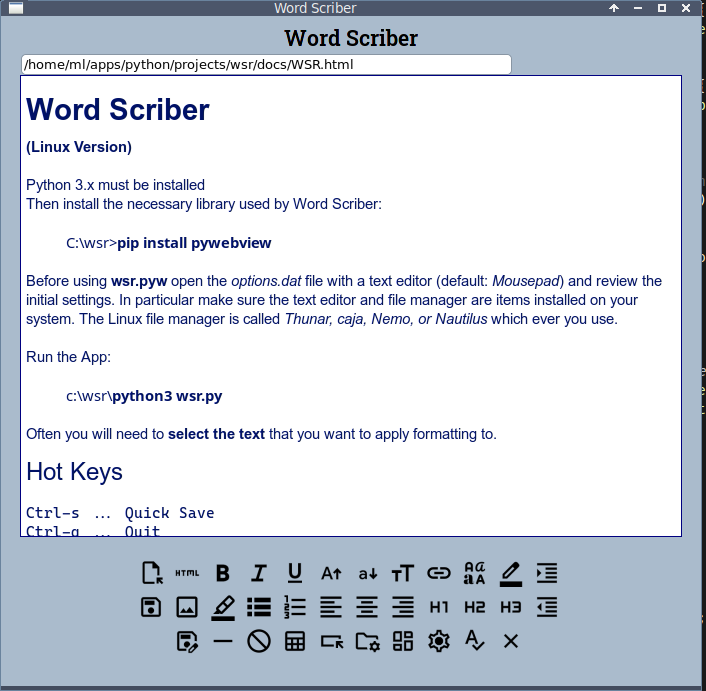
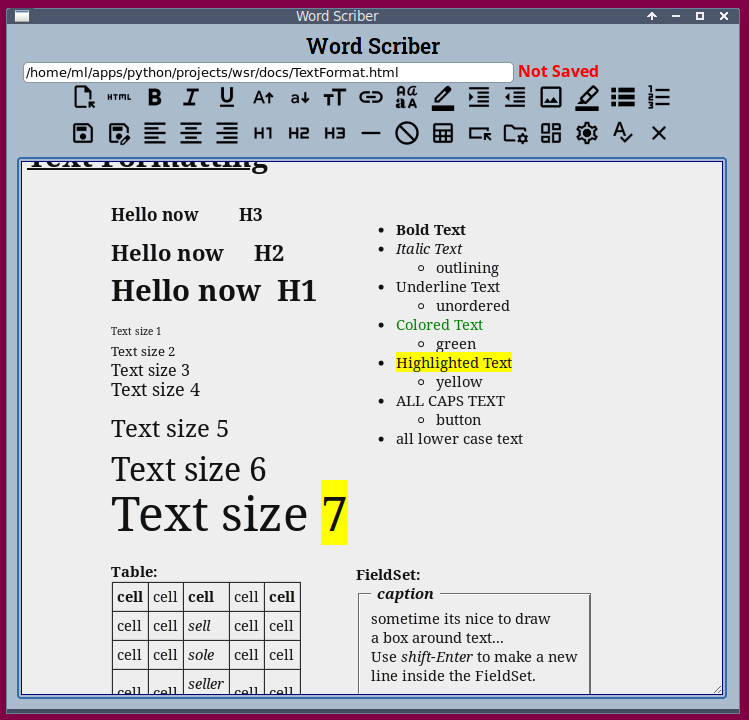
update

diff --git a/index.html b/index.html
@@ -167,9 +167,6 @@ class RichTX {
   }
 
   function setOptions(con) {
-    /* sets the options with Javascript & CSS*/
-    var wh = 0; // wanted window height
-    const originalRatio = 700 / 490;
     opts = con.split(",");
     JS.doq("#CE1").style.fontFamily = opts[0]; // font family
     JS.doq("#CE1").style.fontSize = opts[1]; // font size
@@ -177,11 +174,6 @@ class RichTX {
     JS.doq("#CE1").style.lineHeight = opts[3]; // line height
     JS.doq("body").style.background = opts[4]; // body background
     JS.doq("#CE1").style.background = opts[5]; // CE background
-    // Calculate the new length for CE to keep the ratio close
-    wh = opts[7]; // (new) window height
-    const newCE = wh / originalRatio;
-    JS.doq("#CE1").style.height = "" + newCE + "px"; // CE height
-    JS.doq("#TA1").style.height = "" + newCE + "px"; // TA height
   }
 
   function launch_editor() {
@@ -224,21 +216,28 @@ class RichTX {
   }
   #CE1 {
       padding: 5px;
-      width: 98%;
-      height: 400px;
       border: 1px solid navy;
-      margin: auto;
-      overflow: auto;
+      margin: 6px;
       box-sizing: border-box;
+    resize: vertical;
+    max-height: 78vh; /* adjust these as needed */
+    min-height: 78vh; /* adjust these as needed */
+    max-width: 98%; /* or any other desired maximum width */
+    flex: 1;
+    overflow-y: auto; /* add scrollbars if content overflows */
   }
   #TA1 {
       padding: 5px;
-      height: 400px; /*Note: must be same as #CE*/
-      width: 98%;  /*Note: must be same as #CE*/
+      margin: 6px;
       background: #111;
       color: lightgreen;
       font: normal 10pt "Cascadia Code, Monospace";
-      margin: auto;
+    resize: vertical;
+    max-height: 70vh; /* adjust these as needed */
+    min-height: 78vh; /* adjust these as needed */
+    width: 98%; /* or any other desired maximum width */
+    flex: 1;
+    overflow-y: auto; /* add scrollbars if content overflows */
   }
   .gfont {
     font-family: "Roboto Slab", serif;
@@ -273,12 +272,6 @@ class RichTX {
     cursor: pointer;
     margin-bottom: 8px;
     transition: background-color 0.4s;
-  }
-  .BTN {
-    position: fixed;
-    bottom: 0;
-    width: 100%;
-    overflow-y: auto; /* scroll bar */
   }
   dialog {
     background: #ddd;
@@ -316,11 +309,8 @@ class RichTX {
 &nbsp;&nbsp;<input type="text" id="FN" size=60>
 <span id="SAV">Saved</span>
 <br>
-
-<div id="RTX1"> <!-- The document space -->
-
-</div><br><center>
-<div id="BTN">
+<center>
+<div class="buttons">
   <img class="imgbutton" src="icons/open.png" title="Open File"
       onclick="openFile()" />&nbsp;
   <img class="imgbutton" src="icons/html.png"
@@ -345,61 +335,60 @@ class RichTX {
             title="font name" />&nbsp;
   <img class="imgbutton" src="icons/textcolor.png"
       onclick="JS.dlgOpen('#d1')" title="text color" />&nbsp;
-      <!-- onclick="RTXexec('foreColor', xxxxxxxxxx)" -->
-
   <img class="imgbutton" src="icons/indent.png" title="indent (Alt-i)"
       onclick="RTXexec('indent')" />&nbsp;
+  <img class="imgbutton" src="icons/outdent.png" title="outdent (Alt-o)"
+    onclick="RTXexec('outdent')" />&nbsp;
+  <img class="imgbutton" src="icons/image.png" title="Insert Image"
+    onclick="insertImage()" />&nbsp;
+  <img class="imgbutton" src="icons/highlighter.png" title="Hilite Color"
+    onclick="JS.dlgOpen('#d2');" />&nbsp;
+  <img class="imgbutton" src="icons/lists.png" title="List"
+    onclick="RTXexec('insertUnorderedList')" />&nbsp;
+  <img class="imgbutton" src="icons/format_list_numbered.png" title="Numbered List"
+    onclick="RTXexec('insertOrderedList')" />&nbsp;
   <br>
-    <img class="imgbutton" src="icons/save.png" title="Save (Ctrl-s)"
-      onclick="quicksaveDocument()" />&nbsp;
-    <img class="imgbutton" src="icons/image.png" title="Insert Image"
-      onclick="insertImage()" />&nbsp;
-    <img class="imgbutton" src="icons/highlighter.png" title="Hilite Color"
-      onclick="JS.dlgOpen('#d2');" />&nbsp;
-      <!-- onclick="RTXexec('hiliteColor', xxxxxxxxxxxxxxx)"-->
-
-    <img class="imgbutton" src="icons/lists.png" title="List"
-      onclick="RTXexec('insertUnorderedList')" />&nbsp;
-    <img class="imgbutton" src="icons/format_list_numbered.png" title="Numbered List"
-      onclick="RTXexec('insertOrderedList')" />&nbsp;
-    <img class="imgbutton" src="icons/format_align_left.png" title="Justify Left"
-      onclick="RTXexec('justifyLeft')" />&nbsp;
-    <img class="imgbutton" src="icons/format_align_center.png" title="Justify Center"
-      onclick="RTXexec('justifyCenter')" />&nbsp;
-    <img class="imgbutton" src="icons/format_align_right.png" title="Justify Right"
-      onclick="RTXexec('justifyRight')" />&nbsp;
-    <img class="imgbutton" src="icons/h1.png" title="heading size"
-      onclick="RTXexec('formatBlock', '<h1>')" />&nbsp;
-    <img class="imgbutton" src="icons/h2.png" title="heading size"
-      onclick="RTXexec('formatBlock', '<h2>')" />&nbsp;
-    <img class="imgbutton" src="icons/h3.png" title="heading size"
-      onclick="RTXexec('formatBlock', '<h3>')" />&nbsp;
-    <img class="imgbutton" src="icons/outdent.png" title="outdent (Alt-o)"
-      onclick="RTXexec('outdent')" />&nbsp;
-  <br>
-    <img class="imgbutton" src="icons/save_as.png" title="Save-As"
-      onclick="saveDocument()" />&nbsp;
-    <img class="imgbutton" src="icons/horizontal_rule.png" title="Horizontal Rule"
-      onclick="RTXexec('insertHorizontalRule')" />&nbsp;
-    <img class="imgbutton" src="icons/unformat.png" title="Remove Format"
-      onclick="RTXexec('removeFormat')" />&nbsp;
-    <img class="imgbutton" src="icons/table.png" title="insert Table"
-      onclick="generateTableHTML()" />&nbsp;
-    <img class="imgbutton" src="icons/fieldset.png" title="insert Fieldset"
-      onclick="generateFieldSet()" />&nbsp;
-    <img class="imgbutton" src="icons/files.png" title="manage files"
-      onclick="launch_filemgr()" />&nbsp;
-    <img class="imgbutton" src="icons/browse.png" title="Open in Browser"
-      onclick="launch_browser()" />&nbsp;
-    <img class="imgbutton" src="icons/settings.png" title="Options Edit"
-      onclick="launch_editor()" />&nbsp;
-    <img class="imgbutton" src="icons/spell.png" title="Spell Check"
-      onclick="getWords()" />&nbsp;
-    <img class="imgbutton" src="icons/close.png" title="Close Application"
-      onclick="getDocStatus()" />&nbsp;
+  <img class="imgbutton" src="icons/save.png" title="Save (Ctrl-s)"
+    onclick="quicksaveDocument()" />&nbsp;
+  <img class="imgbutton" src="icons/save_as.png" title="Save-As"
+    onclick="saveDocument()" />&nbsp;
+  <img class="imgbutton" src="icons/format_align_left.png" title="Justify Left"
+    onclick="RTXexec('justifyLeft')" />&nbsp;
+  <img class="imgbutton" src="icons/format_align_center.png" title="Justify Center"
+    onclick="RTXexec('justifyCenter')" />&nbsp;
+  <img class="imgbutton" src="icons/format_align_right.png" title="Justify Right"
+    onclick="RTXexec('justifyRight')" />&nbsp;
+  <img class="imgbutton" src="icons/h1.png" title="heading size"
+    onclick="RTXexec('formatBlock', '<h1>')" />&nbsp;
+  <img class="imgbutton" src="icons/h2.png" title="heading size"
+    onclick="RTXexec('formatBlock', '<h2>')" />&nbsp;
+  <img class="imgbutton" src="icons/h3.png" title="heading size"
+    onclick="RTXexec('formatBlock', '<h3>')" />&nbsp;
+  <img class="imgbutton" src="icons/horizontal_rule.png" title="Horizontal Rule"
+    onclick="RTXexec('insertHorizontalRule')" />&nbsp;
+  <img class="imgbutton" src="icons/unformat.png" title="Remove Format"
+    onclick="RTXexec('removeFormat')" />&nbsp;
+  <img class="imgbutton" src="icons/table.png" title="insert Table"
+    onclick="generateTableHTML()" />&nbsp;
+  <img class="imgbutton" src="icons/fieldset.png" title="insert Fieldset"
+    onclick="generateFieldSet()" />&nbsp;
+  <img class="imgbutton" src="icons/files.png" title="manage files"
+    onclick="launch_filemgr()" />&nbsp;
+  <img class="imgbutton" src="icons/browse.png" title="Open in Browser"
+    onclick="launch_browser()" />&nbsp;
+  <img class="imgbutton" src="icons/settings.png" title="Options Edit"
+    onclick="launch_editor()" />&nbsp;
+  <img class="imgbutton" src="icons/spell.png" title="Spell Check"
+    onclick="getWords()" />&nbsp;
+  <img class="imgbutton" src="icons/close.png" title="Close Application"
+    onclick="getDocStatus()" />&nbsp;
   <br>
 </div>
 </center>
+
+<div id="RTX1"> <!-- The document space -->
+
+</div>
 
 <script>
 /* create and display the RichTX area */

diff --git a/wsr.py b/wsr.py
@@ -11,11 +11,11 @@ spell = SpellChecker()
 current_file = ""  # tracks current file in use
 
 # UNCOMMENT THIS FUNCTION TO WORK ON DUAL MONITORS (there is more)
-# def window_coord():
-#     px = window.x
-#     py = window.y
-#     geo = f"20x20+{px}+{py}"
-#     return geo
+def window_coord():
+    px = window.x
+    py = window.y
+    geo = f"20x20+{px}+{py}"
+    return geo
 
 def on_closing():
     return True
@@ -44,14 +44,14 @@ class Api:
 
     def open_file(self):
         ''' called from javascript '''
-        # root = tk.Tk()  # UNCOMMENT TO WORK ON DUAL MONITORS
-        # root.geometry(window_coord())  # UNCOMMENT TO WORK ON DUAL MONITORS
+        root = tk.Tk()  # UNCOMMENT TO WORK ON DUAL MONITORS
+        root.geometry(window_coord())  # UNCOMMENT TO WORK ON DUAL MONITORS
         global current_file
         file_path = filedialog.askopenfilename(initialdir="./docs",
                                                title = "Open file",
                                                filetypes = (("HTML", "*.html"),
                                                             ("all files", "*.*")))
-        # root.destroy()  # UNCOMMENT TO WORK ON DUAL MONITORS
+        root.destroy()  # UNCOMMENT TO WORK ON DUAL MONITORS
         if file_path:
             current_file = file_path
             with open(current_file, 'r') as file:
@@ -60,15 +60,15 @@ class Api:
 
     def save_file(self, content):
         ''' called from javascript '''
-        # root = tk.Tk()  # UNCOMMENT TO WORK ON DUAL MONITORS
-        # root.geometry(window_coord())  # UNCOMMENT TO WORK ON DUAL MONITORS
+        root = tk.Tk()  # UNCOMMENT TO WORK ON DUAL MONITORS
+        root.geometry(window_coord())  # UNCOMMENT TO WORK ON DUAL MONITORS
         global current_file
         file_path = filedialog.asksaveasfilename(initialdir="./docs",
                                                  defaultextension=".html",
                                                  initialfile="",
                                                  filetypes = (("HTML", "*.html"),
                                                             ("all files", "*.*")))
-        # root.destroy()  # remove if single monitor
+        root.destroy()  # remove if single monitor
         if file_path:
             current_file = file_path
             with open(file_path, 'w') as file:
@@ -122,15 +122,13 @@ if __name__ == '__main__':
     api = Api()
 
     opts = api.open_options().split(',')
-    w = int(opts[6]) # width
-    h = int(opts[7]) # height
-    tx = opts[8]  # text editor
-    fm = opts[9] # file manager
+    tx = opts[6]  # text editor
+    fm = opts[7] # file manager
 
     window = webview.create_window('Word Scriber',
                      url='index.html',
-                     width=w,
-                     height=h,
+                     width=650,
+                     height=675,
                      js_api=api)
 
     window.events.closing += on_closing
